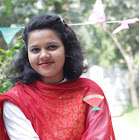
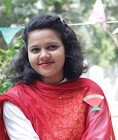
images changed for the sevices and edite some of images on about page

diff --git a/src/component/Navbar/NavBar.jsx b/src/component/Navbar/NavBar.jsx
@@ -32,10 +32,16 @@ const NavBar = () => {
                         About us
                     </NavLink>
                     <NavLink
+                        to={`/services`}
+                        className={({ isActive }) => (isActive ? activeClass : normalClass)}
+                    >
+                        Services
+                    </NavLink>
+                    <NavLink
                         to={`/a`}
                         className={({ isActive }) => (isActive ? activeClass : normalClass)}
                     >
-                        Activities
+                        Acknowledgment & Impact
                     </NavLink>
                     {/* <Popover>
                         <PopoverButton className=" text-black z-50 focus:outline-none data-[active]:text-black data-[hover]:text-black data-[focus]:outline-1 data-[focus]:outline-black hover-effect font-semibold text-xl">
@@ -90,13 +96,7 @@ const NavBar = () => {
                         </Transition>
                     </Popover> */}
 
-                    <NavLink
-                        to={`https://docs.google.com/forms/d/e/1FAIpQLSfOjFK7-_wj3Kd76JOHuHGri2DvIUR5OYT1kKRuVcFF8pEbYA/viewform`}
-                        target="_blank"
-                        className={({ isActive }) => (isActive ? activeClass : normalClass)}
-                    >
-                        Become a volunteer
-                    </NavLink>
+
                     <NavLink
                         to={`/team`}
                         className={({ isActive }) => (isActive ? activeClass : normalClass)}

diff --git a/src/pages/AboutUs/AboutUs.jsx b/src/pages/AboutUs/AboutUs.jsx
@@ -31,7 +31,9 @@ const AboutUs = () => {
                 <div className='flex items-center gap-1 text-white mb-2' >
                     <a href='#word_from_ceo' className='hover-effect-about text-xs lg:text-base' >About The Founder</a>
                     <p><FaChevronRight /></p>
-                    <a href='#our_team' className='hover-effect-about text-xs lg:text-base' >Our Team</a>
+                    <a href='#our_team' className='hover-effect-about text-xs lg:text-base' >Advisors</a>
+                    <p><FaChevronRight /></p>
+                    <a href='#team' className='hover-effect-about text-xs lg:text-base' >Our Team</a>
                     <p><FaChevronRight /></p>
                     <a href='#mission_vision' className='hover-effect-about text-xs lg:text-base' >Mission & Vision</a>
                 </div>
@@ -116,7 +118,7 @@ const AboutUs = () => {
                         />
                     </div>
                     {/* Team members */}
-                    <div className=' my-10 md:my-20'>
+                    <div id='team' className=' my-10 md:my-20'>
                         <Title>Team Members</Title>
                     </div>
                     <Team />

diff --git a/src/component/Services/Services.jsx b/src/component/Services/Services.jsx
@@ -1,7 +1,8 @@
-import advocacy from '../../assets/images/servicesPhoto/advocacy_awareness.png';
-import capacity from '../../assets/images/servicesPhoto/psycho_social.png';
-import consultancy from '../../assets/images/servicesPhoto/consultancy.png';
-import psycho_social from '../../assets/images/servicesPhoto/psycho_social.png';
+
+import psycho_social from '../../assets/images/servicesPhoto/psycho_soicial_2.jpg.webp'
+import advocacy from '../../assets/images/servicesPhoto/advocacy_2.jpg'
+import consultancy from '../../assets/images/servicesPhoto/consultancy_2.jpg'
+import capacity from '../../assets/images/servicesPhoto/capacity_2.jpg'
 import Card from "../Card/Card";
 import Title from "../Title/Title";
 

diff --git a/src/component/Team/Team.jsx b/src/component/Team/Team.jsx
@@ -13,7 +13,7 @@ const Team = () => {
                 <img className='w-44 h-44 object-cover  rounded-full  ' src={ceo} alt="" />
                 <div className='mt-4'>
                     <h1 className='text-xl font-semibold'> Shamsin Ahmed</h1>
-                    <p className='text-[#118088] font-semibold tracking-widest text-[12px]'>Founder</p>
+                    <p className='text-[#118088] font-semibold tracking-widest text-[12px]'>CEO & Lead Consultant </p>
                 </div>
             </div>
             <div >
